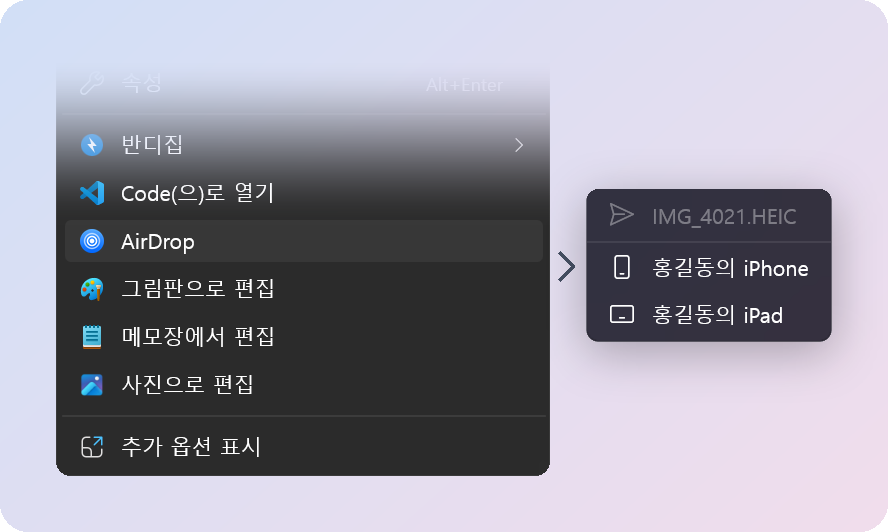
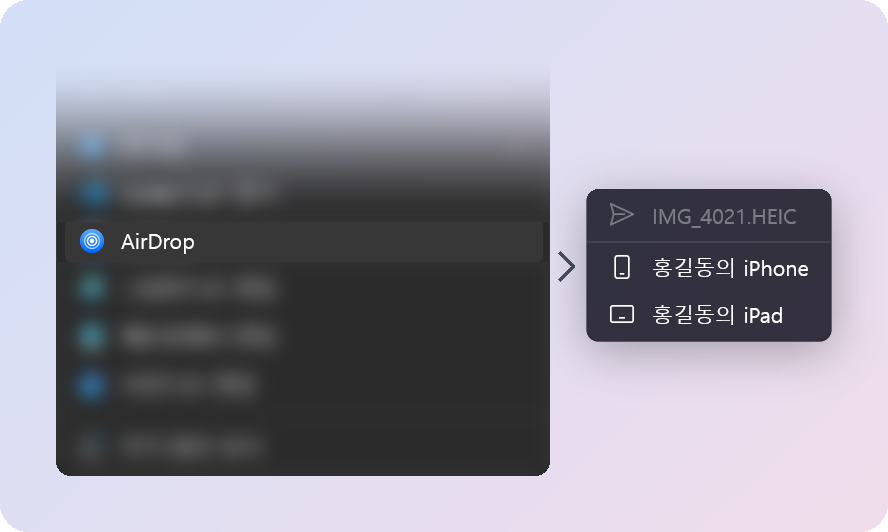
0.2.1: setup upgrades a running WirDrop
Running the setup over an installed WirDrop failed: the engine service
and its usbfwd run in another session, where Restart Manager can't
close them, so replacing usbfwd.exe was denied and the setup rolled
back. The setup now exits the tray app and stops the service first;
afterwards it starts them again as before.

The README no longer compares with a Mac's time, which isn't an Apple
figure, and the Korean send picture blurs the other menu entries as the
English one does.

diff --git a/docs/ko/how-it-works.md b/docs/ko/how-it-works.md
@@ -62,8 +62,7 @@ PC를 같이 쓰는 사람마다 Apple ID를 하나씩 더할 수 있습니다. 
 | iPhone → PC | 3.1~3.6초 (22~26 MB/s) | 22초 |
 | PC → iPhone | iPhone이 수락한 뒤 3.1~3.3초 (24~26 MB/s) | 14.1초 |
 
-Mac은 같은 영상을 약 7초에 받습니다. 지금의 한계는 iPhone 쪽에 있습니다. iPhone은 전송 시간의
-65~77%만 공용 채널에 머뭅니다.
+지금의 한계는 iPhone 쪽에 있습니다. iPhone은 전송 시간의 65~77%만 공용 채널에 머뭅니다.
 
 ## 알려진 한계
 

diff --git a/readme/README.ko.md b/readme/README.ko.md
@@ -91,8 +91,8 @@ Windows가 씁니다.
 <details>
 <summary><b>얼마나 빠른가요?</b></summary>
 
-1 m 거리의 iPhone과 80 MB 영상을 주고받는 데 양방향 모두 약 3초(22~26 MB/s)가 걸립니다. Mac은
-약 7초입니다. [동작 원리](../docs/ko/how-it-works.md#속도)를 보세요.
+1 m 거리의 iPhone과 80 MB 영상을 주고받는 데 양방향 모두 약 3초(22~26 MB/s)가 걸립니다.
+[동작 원리](../docs/ko/how-it-works.md#속도)를 보세요.
 </details>
 
 <details>

diff --git a/docs/how-it-works.md b/docs/how-it-works.md
@@ -64,8 +64,7 @@ An 80 MB (79.75 MB) video between the PC and an iPhone a metre away:
 | iPhone → PC | 3.1 to 3.6 s (22 to 26 MB/s) | 22 s |
 | PC → iPhone | 3.1 to 3.3 s after the iPhone accepts (24 to 26 MB/s) | 14.1 s |
 
-A Mac receives the same video in about 7 seconds. What limits it now is the iPhone, which spends
-only 65 to 77% of a transfer on the shared channel.
+What limits it now is the iPhone, which spends only 65 to 77% of a transfer on the shared channel.
 
 ## Known limits
 

diff --git a/README.md b/README.md
@@ -91,8 +91,8 @@ Windows.
 <details>
 <summary><b>How fast is it?</b></summary>
 
-An 80 MB video takes about 3 seconds either way (22 to 26 MB/s) with the iPhone a metre away. A Mac
-takes about 7. See [How it works](docs/how-it-works.md#speed).
+An 80 MB video takes about 3 seconds either way (22 to 26 MB/s) with the iPhone a metre away. See
+[How it works](docs/how-it-works.md#speed).
 </details>
 
 <details>
